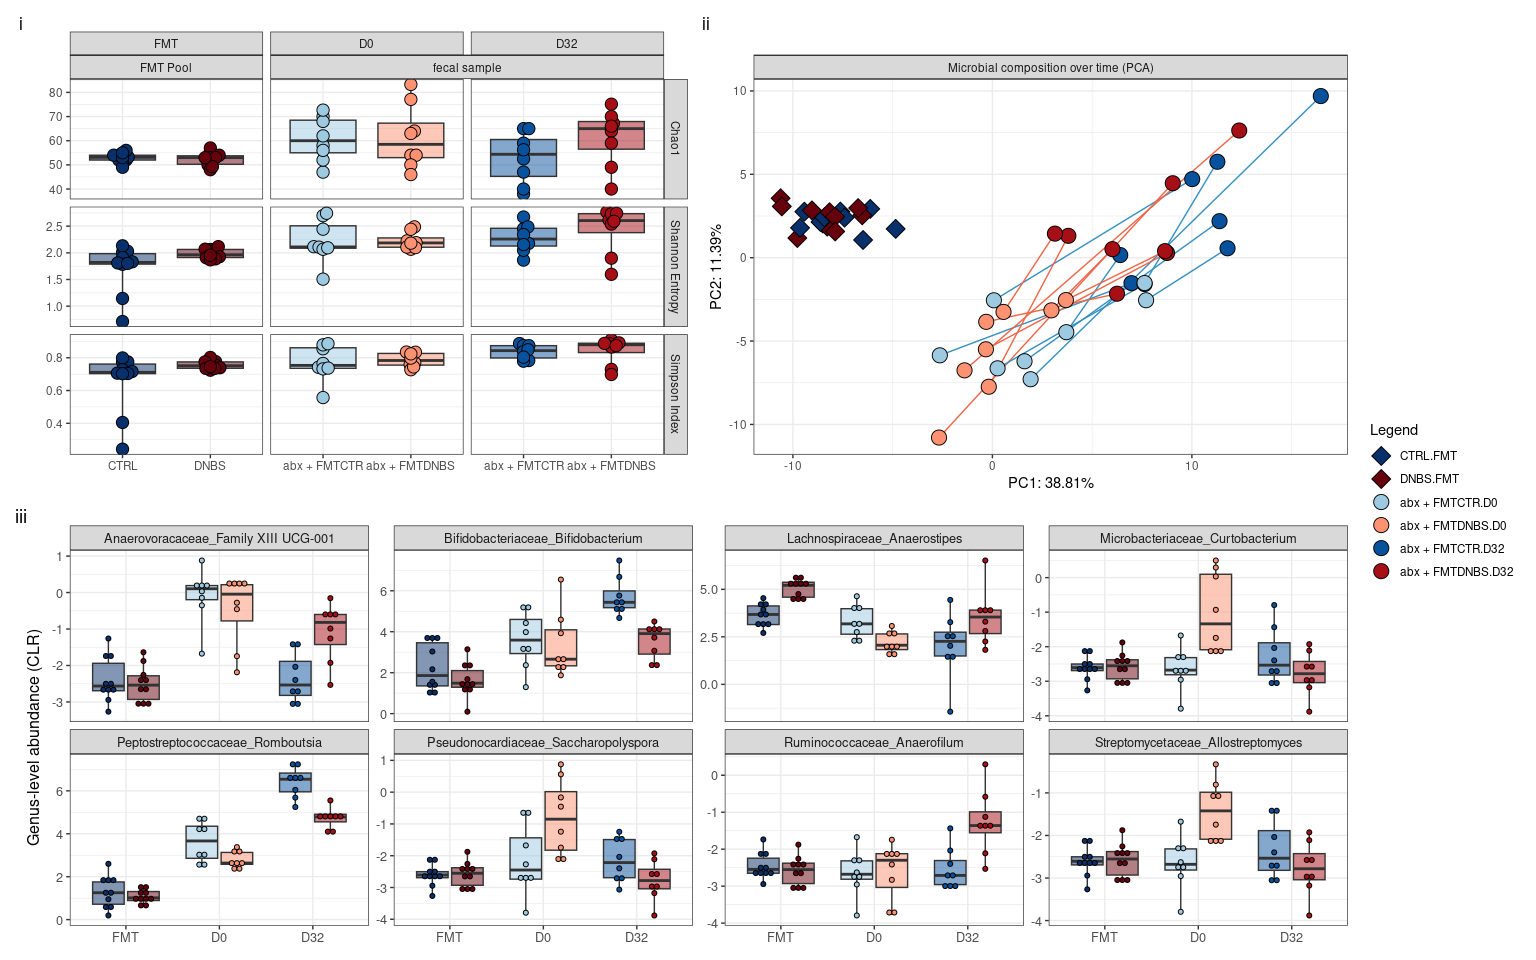
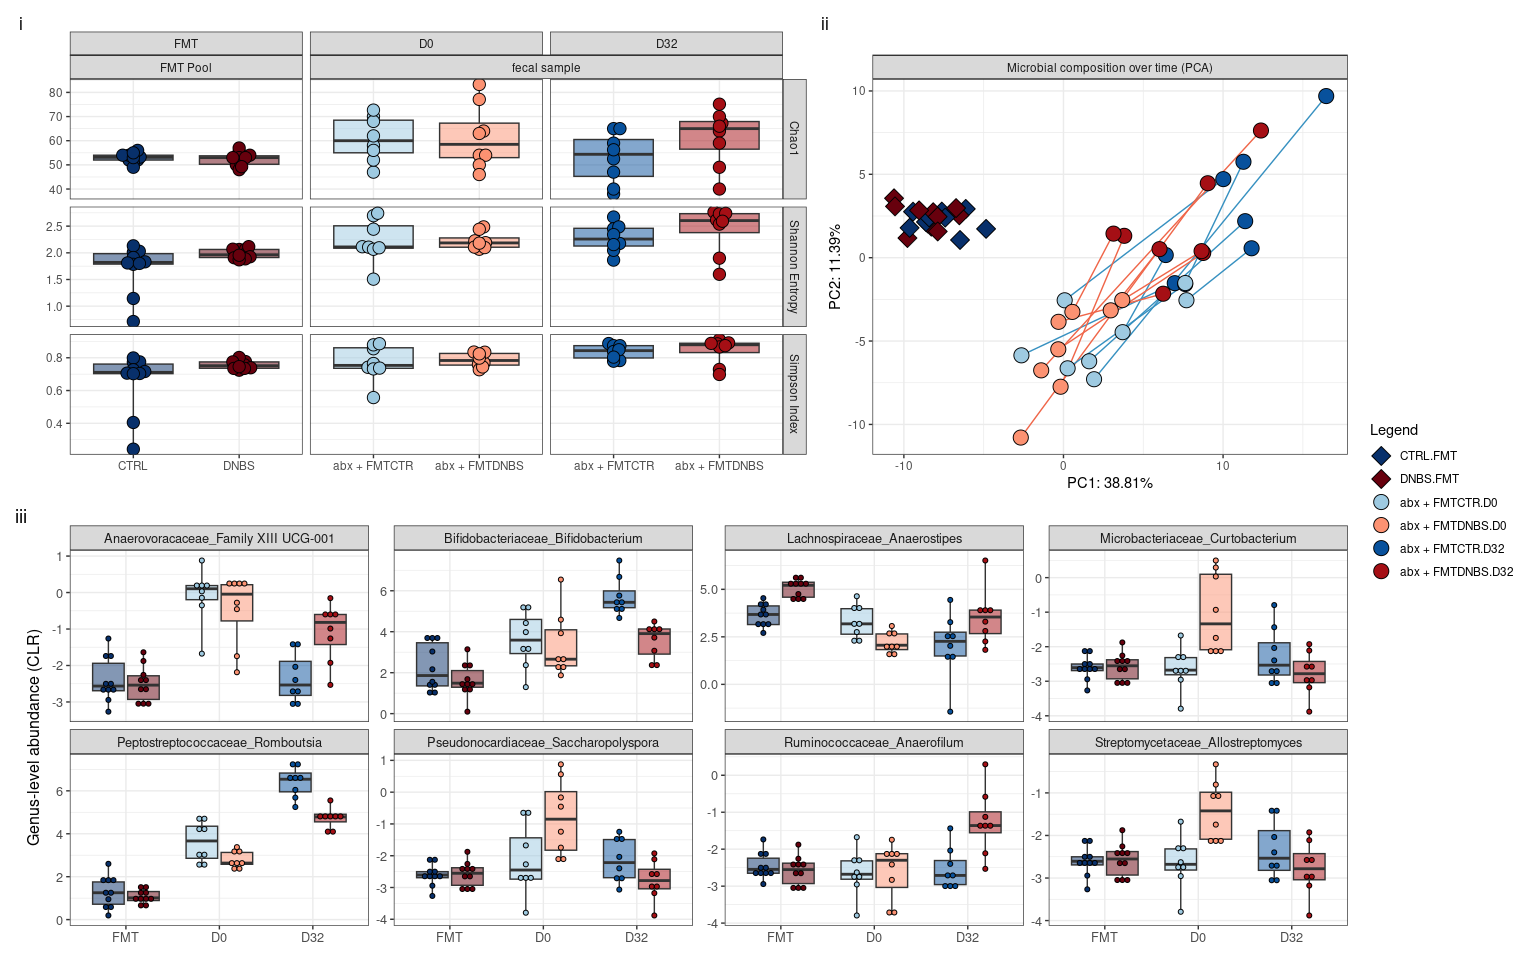
update

diff --git a/README.md b/README.md
@@ -21,7 +21,9 @@ library(patchwork)
 ```
 
 ``` r
-(p_alpha + p_beta)/p_genus + plot_layout(guides = 'collect') + plot_annotation(tag_levels = "i")
+(p_alpha + p_beta + plot_layout(widths = c(3, 2)))/p_genus + 
+  plot_layout(guides = 'collect') + 
+  plot_annotation(tag_levels = "i")
 ```
 
 ![](README_files/figure-gfm/plot_path-1.png)<!-- -->
@@ -45,7 +47,9 @@ library(patchwork)
     ## [1] "Using theoretical distribution."
 
 ``` r
-((t_alpha | t_beta)/(t_GBM)) + plot_layout(guides = 'collect') + plot_annotation(tag_levels = "i")
+(t_alpha + t_beta + plot_layout(widths = c(3, 2))) /t_GBM + 
+  plot_layout(guides = 'collect') + 
+  plot_annotation(tag_levels = "i")
 ```
 
 ![](README_files/figure-gfm/plot_ther-1.png)<!-- -->
